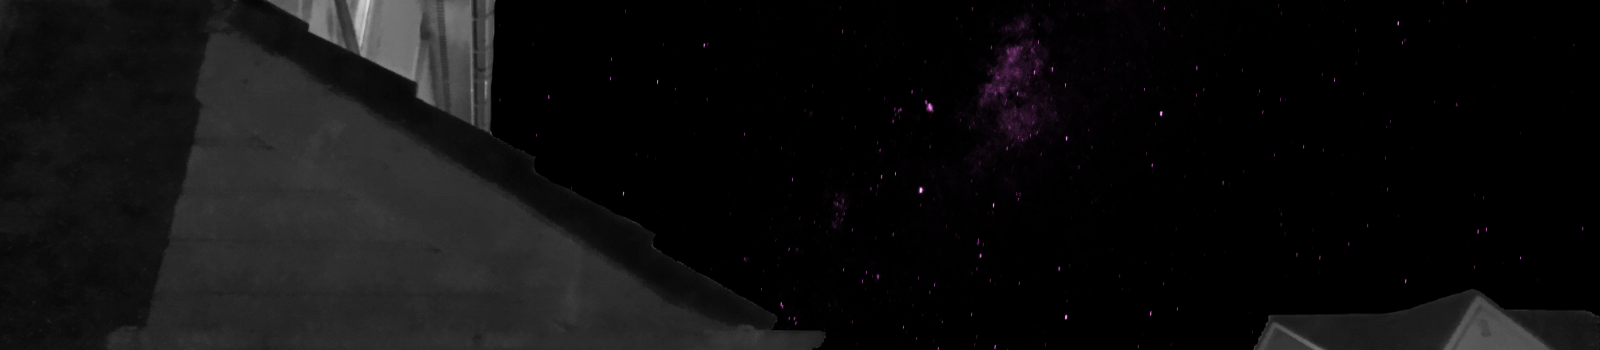
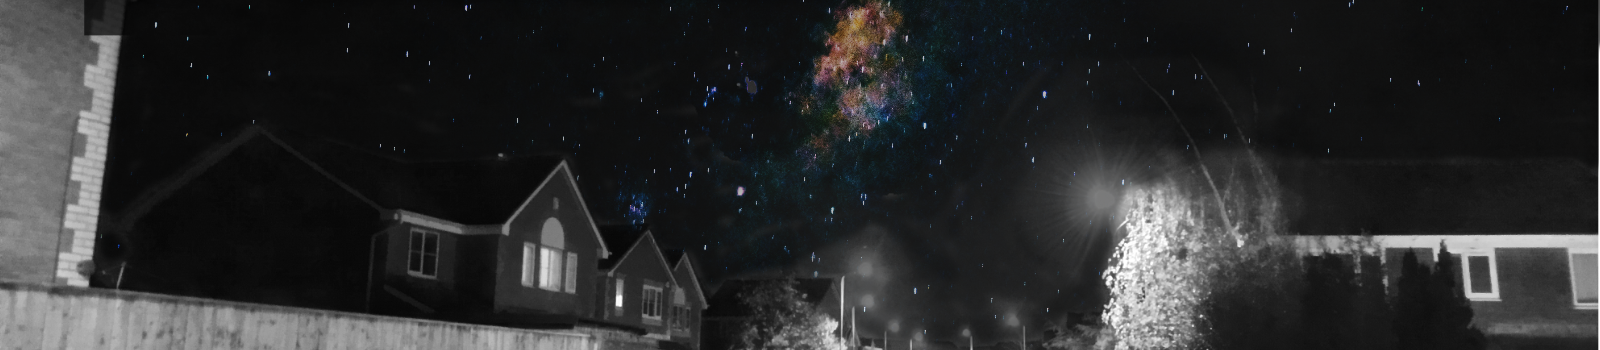
changed header photo, little bit of text in about_me and added headshot photo

diff --git a/aboutme.md b/aboutme.md
@@ -7,9 +7,11 @@ description: Biography of Andy Marron. A Teesside sci-fi, urban fantasy, and com
 
 ## About Me
 
+<img src="/assets/img/Andy_Marron_photo.png" alt="Andy Marron, Teesside sci-fi, urban fantasy, and comedy author and musician" style="display: block; max-width: 260px; width: 100%; height: auto; margin: 0 auto 1.5rem auto; border-radius: 8px; border: 2px solid #fff; box-shadow: 0 4px 12px rgba(0,0,0,0.5);">
+
 Andy Marron is a sci-fi, urban fantasy and comedy author writing stories that put people or creatures in ridiculous situations. He works loosely on the premise "What if this thing was put in this situation?" Based on a concept made famous by Stephen King.
 
-His love of comedy was born through decades of British TV sitcoms such as Red Dwarf, Blackadder and The Thick of It. His love of books comes largely from books such as The HitchHikers Guide To The Galaxy and Rivers of London series. Other books he loves are the Abhorsen series, His Dark Materials, the Dungeon Crawler Carl series and Terry Pratchett books. He also enjoys reading sport and music biographies.
+His love of comedy was born through decades of British TV sitcoms such as Red Dwarf, Blackadder and The Thick of It. His love of reading largely comes from books such as The HitchHikers Guide To The Galaxy and Rivers of London series. Other books he loves are the Abhorsen series, His Dark Materials, the Dungeon Crawler Carl series and anything by Terry Pratchett. He also enjoys reading sport and music biographies.
 
 He began writing when he hit a period of depression in his mid 40's. One day he opened Microsoft Word and the words started tumbling out. He detailed his entire journey of being in an unsigned band into his first manuscript with one of his chapters available on this site.
 
@@ -21,7 +23,7 @@ When he finished the book, he had the writing bug. He needed more. So far he has
 
 ## How to contact me
 
-Please sign up for my newsletter and mailing list and get a free short story(The Hockenspier Chronicles - Count Vladisivic) as a reward. It's about a vampire going through a mid-life crisis at the age of 537 and seeking professional help.
+Please sign up for my newsletter and mailing list and get a free short story (The Hockenspier Chronicles - Count Vladisivic) as a reward. It's about a vampire going through a mid-life crisis at the age of 537 and seeking professional help.
 
 I read every message and email, so please drop me a line for a chat, or any queries.
 
@@ -35,7 +37,7 @@ Social media
 ---
 
 
-## A Little More About Me
+### A Little More About Me
 
 Born amongst the smog in Teesside, England, Andrew spent most of his childhood playing football and computer games. At five, his dad introduced him to the guitar, and he pretty much sucked at it from the beginning, eventually putting it away as he became a teenager. Later, he discovered rock and heavy metal, which inspired him to pick up the guitar again and (attempt to) play his favourite tunes. Since 1998, he has written numerous songs, played in various bands, and released music on streaming services, YouTube, and other platforms that people ignore.
 
@@ -47,19 +49,8 @@ He also enjoys making his own beer and wine and has been doing so for over 15+ y
 
 He still lives in Teesside with his family and has a day job that pays the bills.
 
-
-
----
-<!--
-## Photo (Optional)
-
-If you want to add a headshot later, drop an image into `/assets/img/` and use:
-
-`![My Photo](/assets/img/your-photo-name.jpg)`
-
 ---
 
--->
 
 
 © 2026 Andrew Marron
